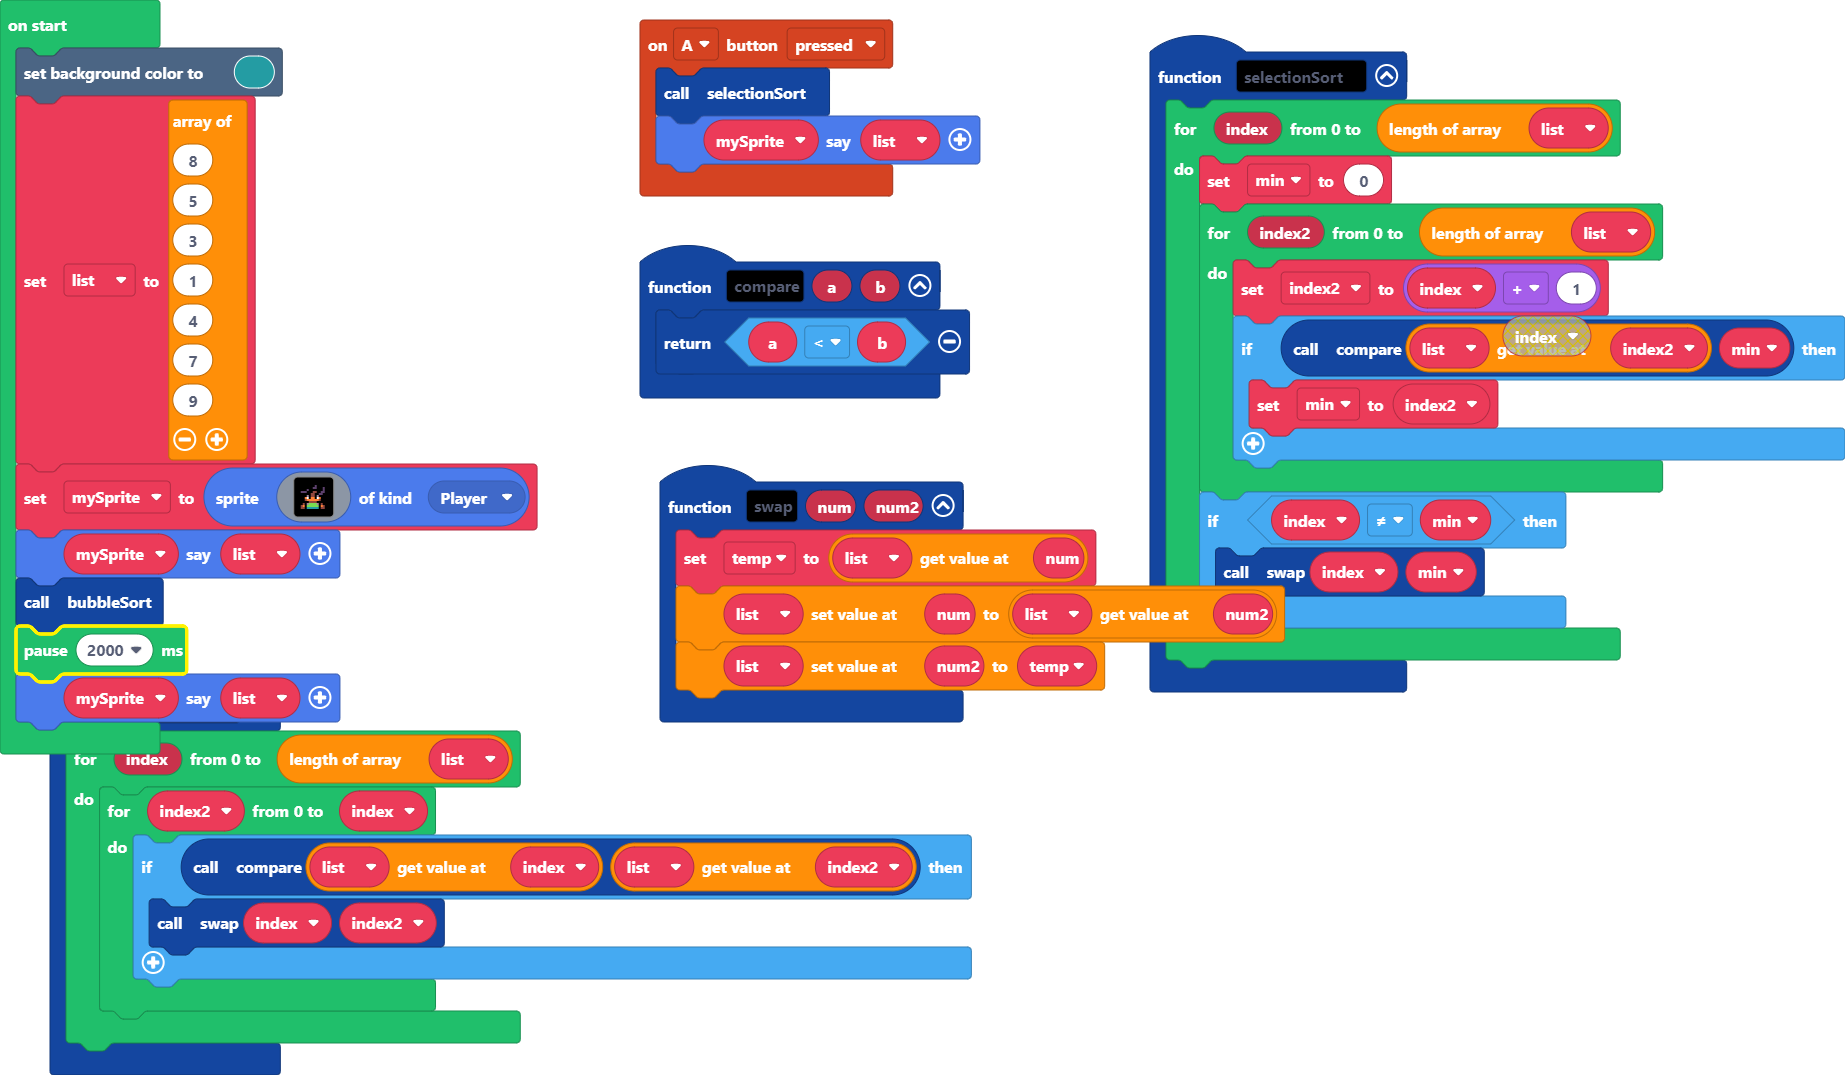
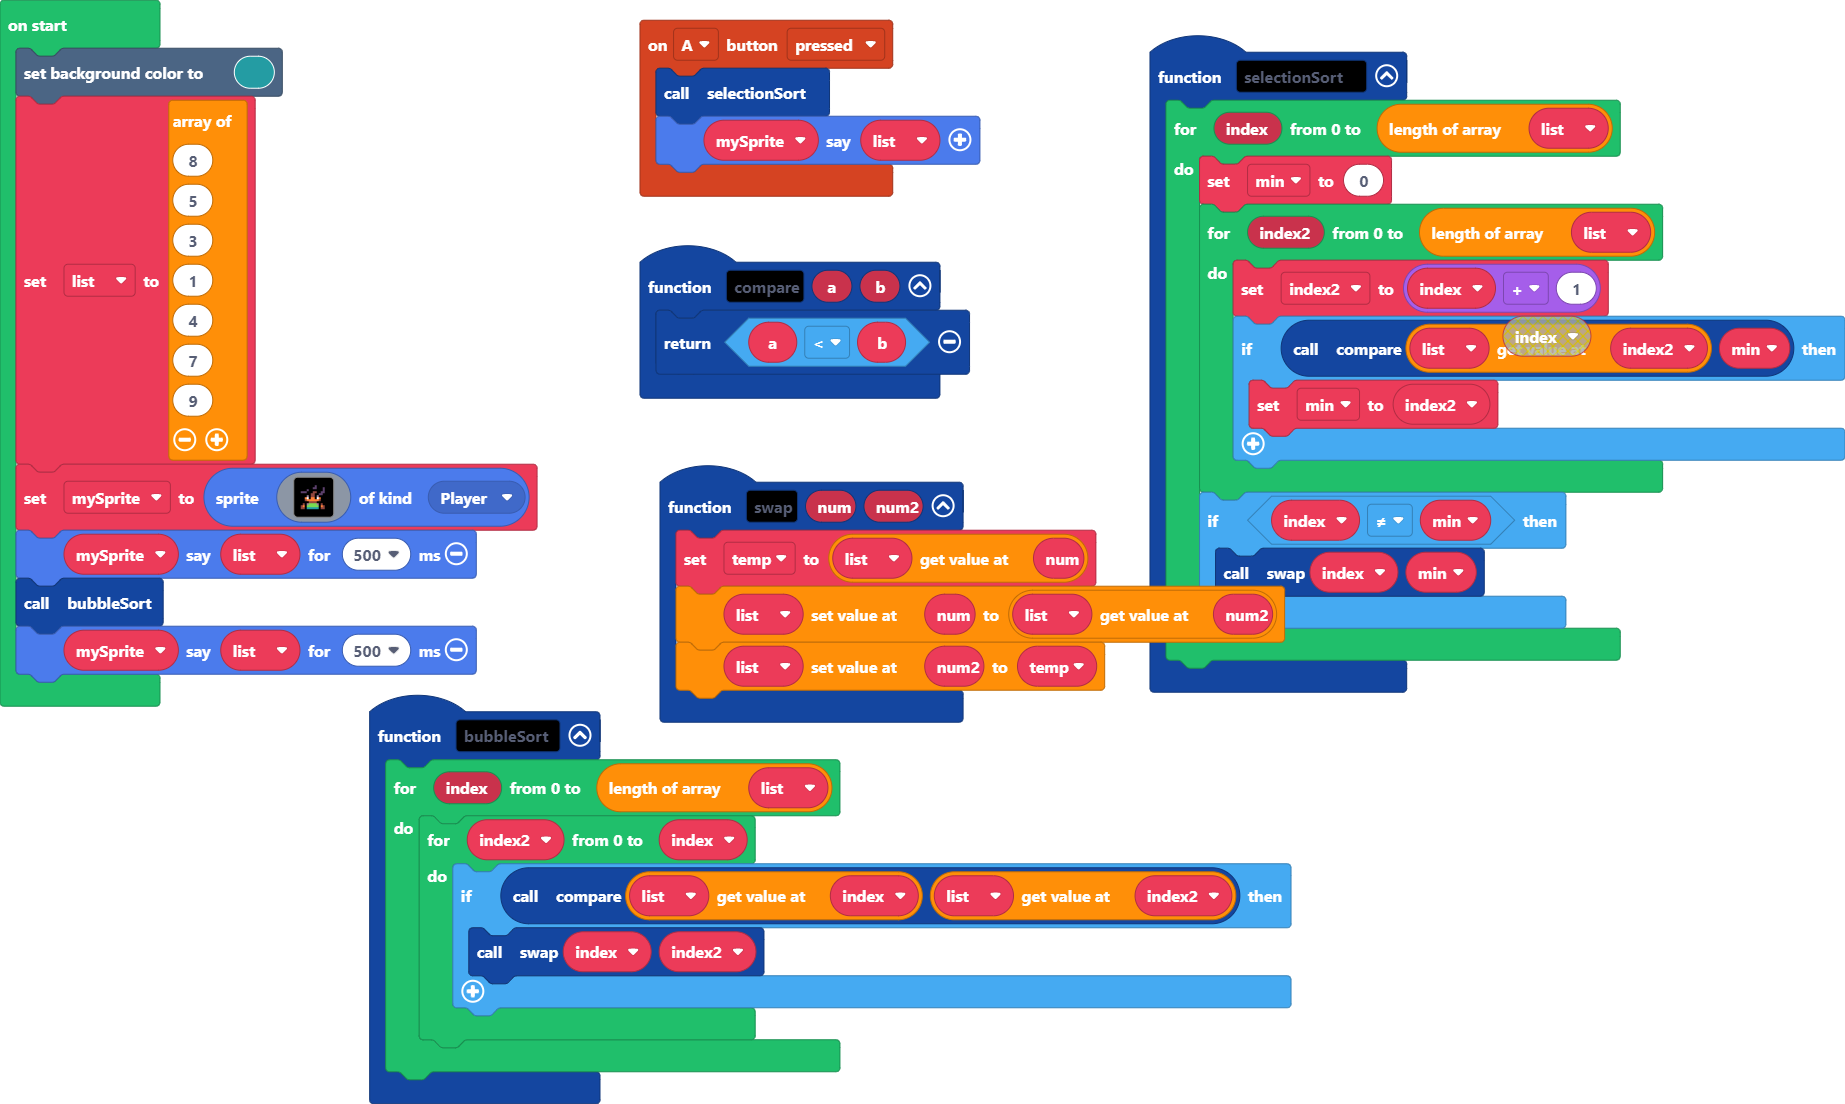
added a 0.5s time for each of mySprite say list blocks

Changed region(s): [[0.0, 0.0307, 1.0, 1.0], [0.3398, 0.2149, 0.5252, 0.3684], [0.3398, 0.0307, 0.5252, 0.1842]]

diff --git a/main.ts b/main.ts
@@ -65,7 +65,6 @@ mySprite = sprites.create(img`
     . . . f f f f f f . . . . 
     . . . f f . . f f . . . . 
     `, SpriteKind.Player)
-mySprite.say(list)
+mySprite.say(list, 500)
 bubbleSort()
-pause(2000)
-mySprite.say(list)
+mySprite.say(list, 500)
